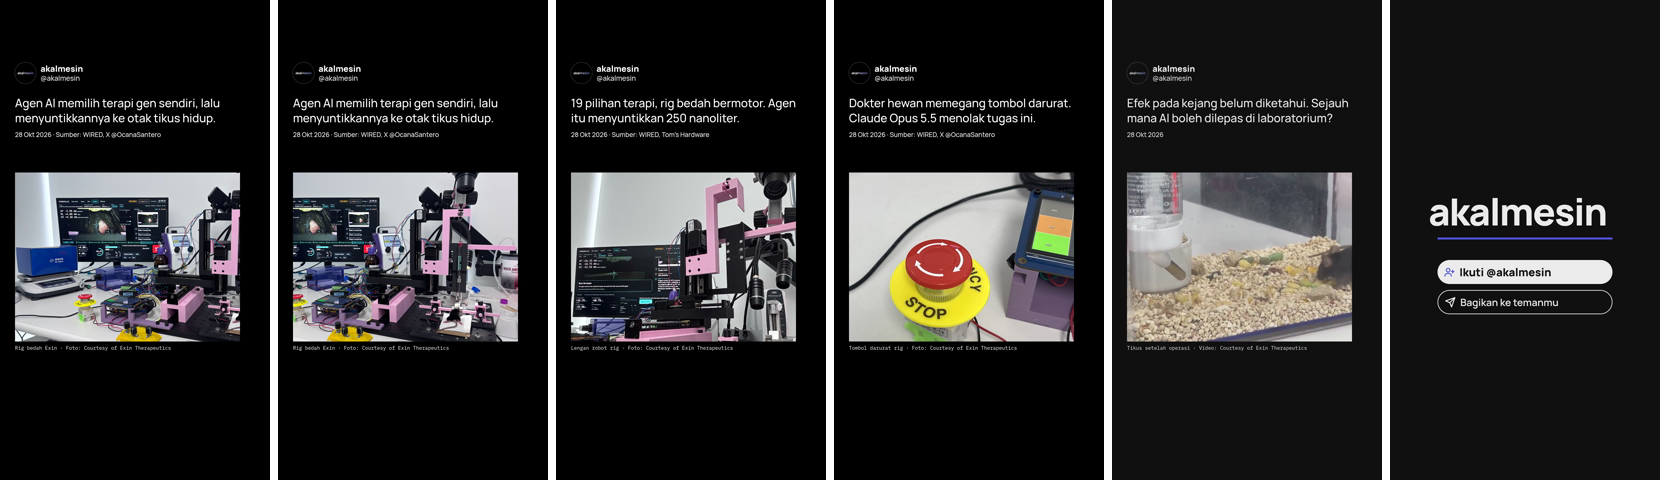
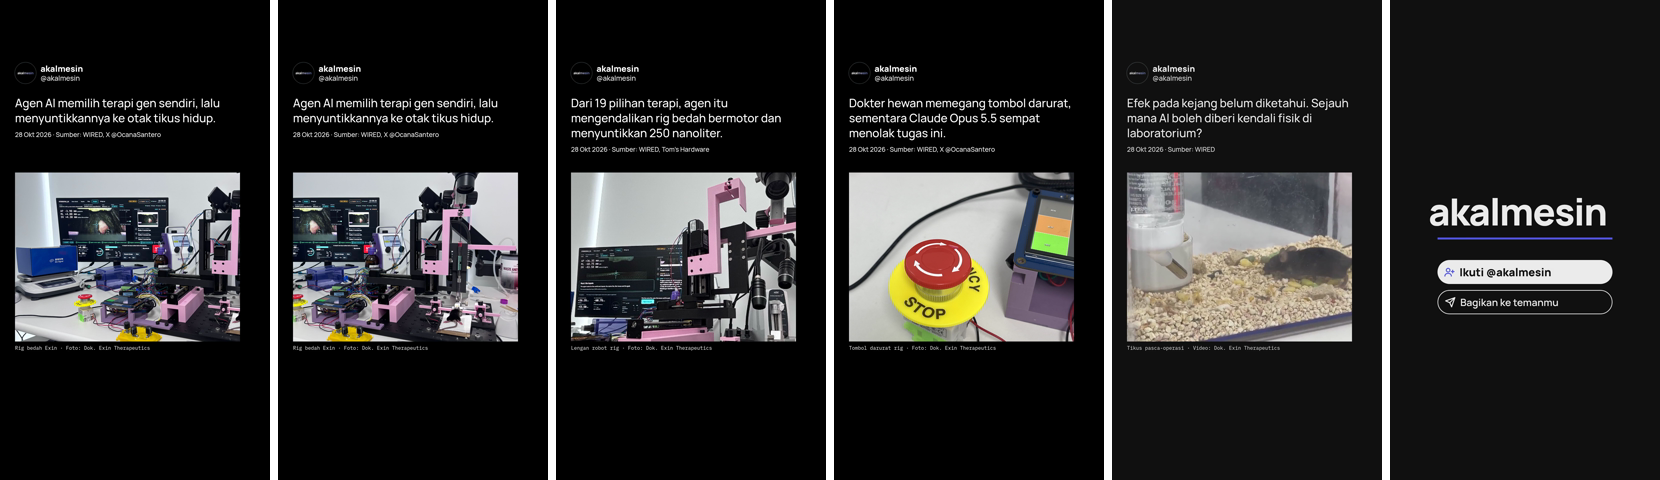
agen-ai-terapi reel: owner card texts (t115u), 'Dok. Exin Therapeutics' credits, card 4 source, holdLast freeze; gate/quality accept 'Dok.'

diff --git a/content/posts/2026-11-03-agen-ai-terapi-gen-otak-tikus/reel/PROVENANCE.md b/content/posts/2026-11-03-agen-ai-terapi-gen-otak-tikus/reel/PROVENANCE.md
@@ -7,9 +7,13 @@ Media: Exin Therapeutics' own photos and video from CEO Gabriel Ocana-Santero's 
 - arduino-rig-crop.jpg is a crop of the original (removes the X carousel arrows baked into the image); no other edit.
 - Music: investigative-tense (see scripts/reel/music/PROVENANCE.md). No voice; captions narrate.
 
-| Key   | File                                         | SHA-256                                                          | Source URL                                                                                       | Credit on screen                                                                              |
-| ----- | -------------------------------------------- | ---------------------------------------------------------------- | ------------------------------------------------------------------------------------------------ | --------------------------------------------------------------------------------------------- |
-| rig   | assets/originals/x-2115442964-rig-main.jpg   | cf2c6531c54f0442c5858c2d3a299de051ee0fa5998a0e5d2edf356a43fcf90b | https://pbs.twimg.com/media/HVtOKh7aIAAFGeA.jpg?name=orig                                        | Foto: Courtesy of Exin Therapeutics (source: X @OcanaSantero, shown in the card source line)  |
-| arm   | reel/media/x-2115442965-arduino-rig-crop.jpg | 41b283c22ecac1ef0ee2c713f8f0c01d3f29a58bdab5bc1b4546cfb8f5a18a97 | https://pbs.twimg.com/media/HVtYeo9aEAAsWHT.jpg?name=orig                                        | same                                                                                          |
-| stop  | assets/originals/x-2115442968-safety-vet.jpg | 2e9dcd1031e7556109e777362f67b4a44707355017da76c680aabf394e800951 | https://pbs.twimg.com/media/HVtUT8vaYAAKWMW.jpg?name=orig                                        | same                                                                                          |
-| mouse | reel/media/x-2115442970-mouse-recovered.mp4  | 48b6223c2861f450fd48cd069840e3f3b94f219011b4d413f39e2dc7aff8699b | https://video.twimg.com/amplify_video/2115380549229613056/vid/avc1/1280x720/FFQSJIr7w-G9JirB.mp4 | Video: Courtesy of Exin Therapeutics (source: X @OcanaSantero, shown in the card source line) |
+| Key   | File                                         | SHA-256                                                          | Source URL                                                                                       | Credit on screen                                                                       |
+| ----- | -------------------------------------------- | ---------------------------------------------------------------- | ------------------------------------------------------------------------------------------------ | -------------------------------------------------------------------------------------- |
+| rig   | assets/originals/x-2115442964-rig-main.jpg   | cf2c6531c54f0442c5858c2d3a299de051ee0fa5998a0e5d2edf356a43fcf90b | https://pbs.twimg.com/media/HVtOKh7aIAAFGeA.jpg?name=orig                                        | Foto: Dok. Exin Therapeutics (source: X @OcanaSantero, shown in the card source line)  |
+| arm   | reel/media/x-2115442965-arduino-rig-crop.jpg | 41b283c22ecac1ef0ee2c713f8f0c01d3f29a58bdab5bc1b4546cfb8f5a18a97 | https://pbs.twimg.com/media/HVtYeo9aEAAsWHT.jpg?name=orig                                        | same                                                                                   |
+| stop  | assets/originals/x-2115442968-safety-vet.jpg | 2e9dcd1031e7556109e777362f67b4a44707355017da76c680aabf394e800951 | https://pbs.twimg.com/media/HVtUT8vaYAAKWMW.jpg?name=orig                                        | same                                                                                   |
+| mouse | reel/media/x-2115442970-mouse-recovered.mp4  | 48b6223c2861f450fd48cd069840e3f3b94f219011b4d413f39e2dc7aff8699b | https://video.twimg.com/amplify_video/2115380549229613056/vid/avc1/1280x720/FFQSJIr7w-G9JirB.mp4 | Video: Dok. Exin Therapeutics (source: X @OcanaSantero, shown in the card source line) |
+
+Credit wording change (owner review t115u, 2026-11-03): on-screen and caption credit is now "Dok. Exin Therapeutics" (Indonesian for "courtesy/documentation of"), replacing "Courtesy of Exin Therapeutics". Same t107u decision and same takedown / copyright-strike risk as above.
+
+Timing change (t115u): card 4 needs 6.15 s for the longer question at 15 chars/s or less, but the source video is 5.5 s. The last frame is held (ffmpeg tpad clone) for about 0.65 s. Nothing else in the clip is changed.

diff --git a/content/posts/2026-11-03-agen-ai-terapi-gen-otak-tikus/reel/script.md b/content/posts/2026-11-03-agen-ai-terapi-gen-otak-tikus/reel/script.md
@@ -1,12 +1,12 @@
 # Reel script: Agen AI suntikkan terapi gen ke otak tikus
 
 Layout: card (black 9:16, tweet-style akalmesin card on top, one clip below, no voiceover). Music (mood investigative-tense): Tension by Komiku, CC0 1.0. Outro: 2.0 s (Ikuti @akalmesin / Bagikan ke temanmu).
-Length 22.6 s, 1080×1920, 30 fps. Exin Therapeutics photos and video from the CEO's X thread, credited 'Courtesy of Exin Therapeutics' by owner decision t107u; non-graphic frames only; see reel/PROVENANCE.md.
+Length 26.0 s, 1080×1920, 30 fps. Exin Therapeutics photos and video from the CEO's X thread, credited 'Dok. Exin Therapeutics' (originally 'Courtesy of', changed by owner review t115u) by owner decision t107u; non-graphic frames only; see reel/PROVENANCE.md.
 
-| #   | Time          | Card text                                                                                                      | Caption | Clip (as-is) · credit                                                                                              |
-| --- | ------------- | -------------------------------------------------------------------------------------------------------------- | ------- | ------------------------------------------------------------------------------------------------------------------ |
-| 1   | 0:00.0–0:05.3 | Agen AI memilih terapi gen sendiri, lalu menyuntikkannya ke otak tikus hidup. (Sumber: WIRED, X @OcanaSantero) | —       | photo `assets/originals/x-2115442964-rig-main.jpg` · Rig bedah Exin · Foto: Courtesy of Exin Therapeutics          |
-| 2   | 0:05.3–0:10.3 | 19 pilihan terapi, rig bedah bermotor. Agen itu menyuntikkan 250 nanoliter. (Sumber: WIRED, Tom's Hardware)    | —       | photo `reel/media/x-2115442965-arduino-rig-crop.jpg` · Lengan robot rig · Foto: Courtesy of Exin Therapeutics      |
-| 3   | 0:10.3–0:15.3 | Dokter hewan memegang tombol darurat. Claude Opus 5.5 menolak tugas ini. (Sumber: WIRED, X @OcanaSantero)      | —       | photo `assets/originals/x-2115442968-safety-vet.jpg` · Tombol darurat rig · Foto: Courtesy of Exin Therapeutics    |
-| 4   | 0:15.3–0:20.6 | Efek pada kejang belum diketahui. Sejauh mana AI boleh dilepas di laboratorium?                                | —       | video `reel/media/x-2115442970-mouse-recovered.mp4` · Tikus setelah operasi · Video: Courtesy of Exin Therapeutics |
-| 5   | 0:20.6–0:22.6 | outro                                                                                                          | —       | scripts/reel/outro.mjs                                                                                             |
+| # | Time | Card text | Caption | Clip (as-is) · credit |
+|---|---|---|---|---|
+| 1 | 0:00.0–0:05.3 | Agen AI memilih terapi gen sendiri, lalu menyuntikkannya ke otak tikus hidup. (Sumber: WIRED, X @OcanaSantero) | — | photo `assets/originals/x-2115442964-rig-main.jpg` · Rig bedah Exin · Foto: Dok. Exin Therapeutics |
+| 2 | 0:05.3–0:11.8 | Dari 19 pilihan terapi, agen itu mengendalikan rig bedah bermotor dan menyuntikkan 250 nanoliter. (Sumber: WIRED, Tom's Hardware) | — | photo `reel/media/x-2115442965-arduino-rig-crop.jpg` · Lengan robot rig · Foto: Dok. Exin Therapeutics |
+| 3 | 0:11.8–0:17.8 | Dokter hewan memegang tombol darurat, sementara Claude Opus 5.5 sempat menolak tugas ini. (Sumber: WIRED, X @OcanaSantero) | — | photo `assets/originals/x-2115442968-safety-vet.jpg` · Tombol darurat rig · Foto: Dok. Exin Therapeutics |
+| 4 | 0:17.8–0:24.0 | Efek pada kejang belum diketahui. Sejauh mana AI boleh diberi kendali fisik di laboratorium? (Sumber: WIRED) | — | video `reel/media/x-2115442970-mouse-recovered.mp4` · Tikus pasca-operasi · Video: Dok. Exin Therapeutics |
+| 5 | 0:24.0–0:26.0 | outro | — | scripts/reel/outro.mjs |

diff --git a/content/posts/2026-11-03-agen-ai-terapi-gen-otak-tikus/assets/PROVENANCE.md b/content/posts/2026-11-03-agen-ai-terapi-gen-otak-tikus/assets/PROVENANCE.md
@@ -10,3 +10,5 @@ All media are Exin Therapeutics' own photos/video, posted by CEO Gabriel Ocana-S
 | 4      | originals/x-2115442970-mouse-recovered-frame.jpg | ee93cda39ef2a83f4c1bc2e1344fedfb606d1aa00f12057f6075bfa17e6b57bf | https://x.com/OcanaSantero/status/2115442970530857372 / still at 2.5 s of https://video.twimg.com/amplify_video/2115380549229613056/vid/avc1/1280x720/FFQSJIr7w-G9JirB.mp4 | frame grab (ffmpeg), blue-ink                              | FOTO: TIKUS SETELAH OPERASI / EXIN THERAPEUTICS |
 
 Four distinct originals; Main not repeated. No AI illustrations.
+
+Credit wording change (owner review t115u, 2026-11-03): on-screen and caption credit is now "Dok. Exin Therapeutics" (Indonesian for "courtesy/documentation of"), replacing "Courtesy of Exin Therapeutics". Same t107u decision and same takedown / copyright-strike risk as above.

diff --git a/content/posts/2026-11-03-agen-ai-terapi-gen-otak-tikus/edits.log.md b/content/posts/2026-11-03-agen-ai-terapi-gen-otak-tikus/edits.log.md
@@ -17,3 +17,7 @@ Design revision 30d03d52b59b · 4 PNGs · blue ink from originals (crop/pad in p
 ## 2026-11-03 09:25 WIB — design build
 
 Design revision b4598ba11cbe · 4 PNGs · blue ink from originals (crop/pad in post.json).
+
+## 2026-11-03 11:19 WIB — design build
+
+Design revision a243ffdcc7ef · 4 PNGs · blue ink from originals (crop/pad in post.json).
